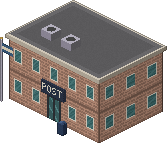
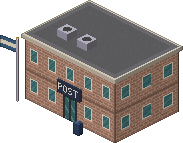
Civic flags fly clear of the walls
The customs, post office and school flags were short cloths laid over the
front wall, reading as stubs cut off by it. Poles now stand at the outer
corners with a longer, drooping cloth flying away from the building, and
props keep off the space they take.

diff --git a/js/city.js b/js/city.js
@@ -1622,6 +1622,7 @@
       'buildings/brick-4.png': [0, 0, 0, CANOPY], 'buildings/hotel.png': [0, 0, 0, CANOPY], 'civic/hospital.png': [0, 0, 0, 0.5], 'nuclear/reactor.png': [0, 0, 0, 0.3], 'nuclear/turbine-hall.png': [0, 0.55, 0, 0.3], 'landmarks/tv-station.png': [0, 0, 0, 0.36], 'houses/diner.png': [0, 0.18, 0, 0],
       'buildings/fastfood.png': [0, 0.34, 0, 0], 'buildings/bistro.png': [0, 0.58, 0, 0], 'buildings/apartment-2.png': [0, 0.22, 0, 0.3],
       'civic/church.png': [0.04, 0.04, 0, 0.36], 'civic/bank.png': [0, 0, 0, 0.36],
+      'civic/post-office.png': [0.3, 0, 0, 0.12], 'civic/school.png': [0.3, 0, 0, 0.12], 'civic/customs.png': [0.3, 0.3, 0, 0.14],
     };
     const keepouts = [], doors = [];
     for (const lot of lots) {

diff --git a/tools/art.py b/tools/art.py
@@ -1362,9 +1362,11 @@ def pyramid(s, x0, y0, sx, sy, z, h, roof):
         s.face(o, np.subtract(q, o), np.subtract(apex, o), rows, tri=True, light=light)
 
 
-def flagpole(s, x, y, h=62, colors=("#3a5a7a", "#d8ccb4", "#3a5a7a")):
+def flagpole(s, x, y, h=62, colors=("#3a5a7a", "#d8ccb4", "#3a5a7a"), dir=1):
+    """A pole at (x, y) whose flag flies along u (dir -1: toward -u, off a
+    building's left corner), drooping a little at the free end."""
     s.box(x - 0.008, y - 0.008, 0, 0.016, 0.016, h, flat(s, "#d8d4dc"), flat(s, "#b3afbd"), flat(s, "#8e8897"))
-    s.face((x + 0.01, y, h - 12), (0.17, 0, 0), (0, 0, 9), banded(s, [rgb(c) for c in colors], 3, axis=1), light=0.95)
+    s.face((x + 0.01 * dir, y, h - 14), (0.27 * dir, 0, -2), (0, 0, 12), banded(s, [rgb(c) for c in colors], 3, axis=1), light=0.95)
     s.blob((x, y, h + 1), 1.4, ramp("#8a6a2e", "#c9a84a", "#f2c06a"))
 
 
@@ -1421,7 +1423,7 @@ def school(seed):
     s.box(cx, cy, hgt + 1, 0.2, 0.2, 13, flat(s, "#e0d8c8"),
           wall_shader(s, "#e0d8c8", 14, 13, 1, [], (0.3, 0.7)), wall_shader(s, "#e0d8c8", 14, 13, 1, [], (0.3, 0.7)))
     pyramid(s, cx - 0.02, cy - 0.02, 0.24, 0.24, hgt + 14, 11, SLATE)
-    flagpole(s, x0 - 0.02, y0 + b + 0.1)
+    flagpole(s, x0 - 0.02, y0 + b + 0.1, dir=-1)
     s.outline(0.7)
     return s, (a, b)
 
@@ -1572,7 +1574,7 @@ def post_office(seed):
     mx, my = x0 + a * 0.66, y0 + b + 0.1
     s.box(mx, my, 0, 0.08, 0.07, 11, flat(s, "#34486a"), flat(s, "#2c3e5c"), flat(s, "#243350"))
     s.blob((mx + 0.04, my + 0.035, 11), 3.2, ramp("#1f2c44", "#2c3e5c", "#34486a", "#45608a"), squash=0.6)
-    flagpole(s, x0 - 0.02, y0 + b + 0.1)
+    flagpole(s, x0 - 0.02, y0 + b + 0.1, dir=-1)
     s.outline(0.7)
     return s, (a, b)
 
@@ -3118,8 +3120,8 @@ def customs(seed):
     flat_roof(s, x0, y0, a, b, hgt + 1, "#5b5a5c", units=2)
     wall_sign(s, x0 + a * 0.5, y0 + b, 36, 0.62, "CUSTOMS", "#2c3548", "#e8e0cc", 12)
     s.box(x0 + a * 0.4, y0 + b, 0, a * 0.2, 0.2, 3, *(flat(s, c) for c in ("#e0d8c8", "#c9bfae", "#b3a998")))
-    for fx in (x0 + 0.1, x0 + a - 0.1):
-        flagpole(s, fx, y0 + b + 0.12, 70)
+    for fx, d in ((x0 - 0.02, -1), (x0 + a + 0.02, 1)):
+        flagpole(s, fx, y0 + b + 0.12, 70, dir=d)
     s.outline(0.7)
     return s, (a, b)
 
